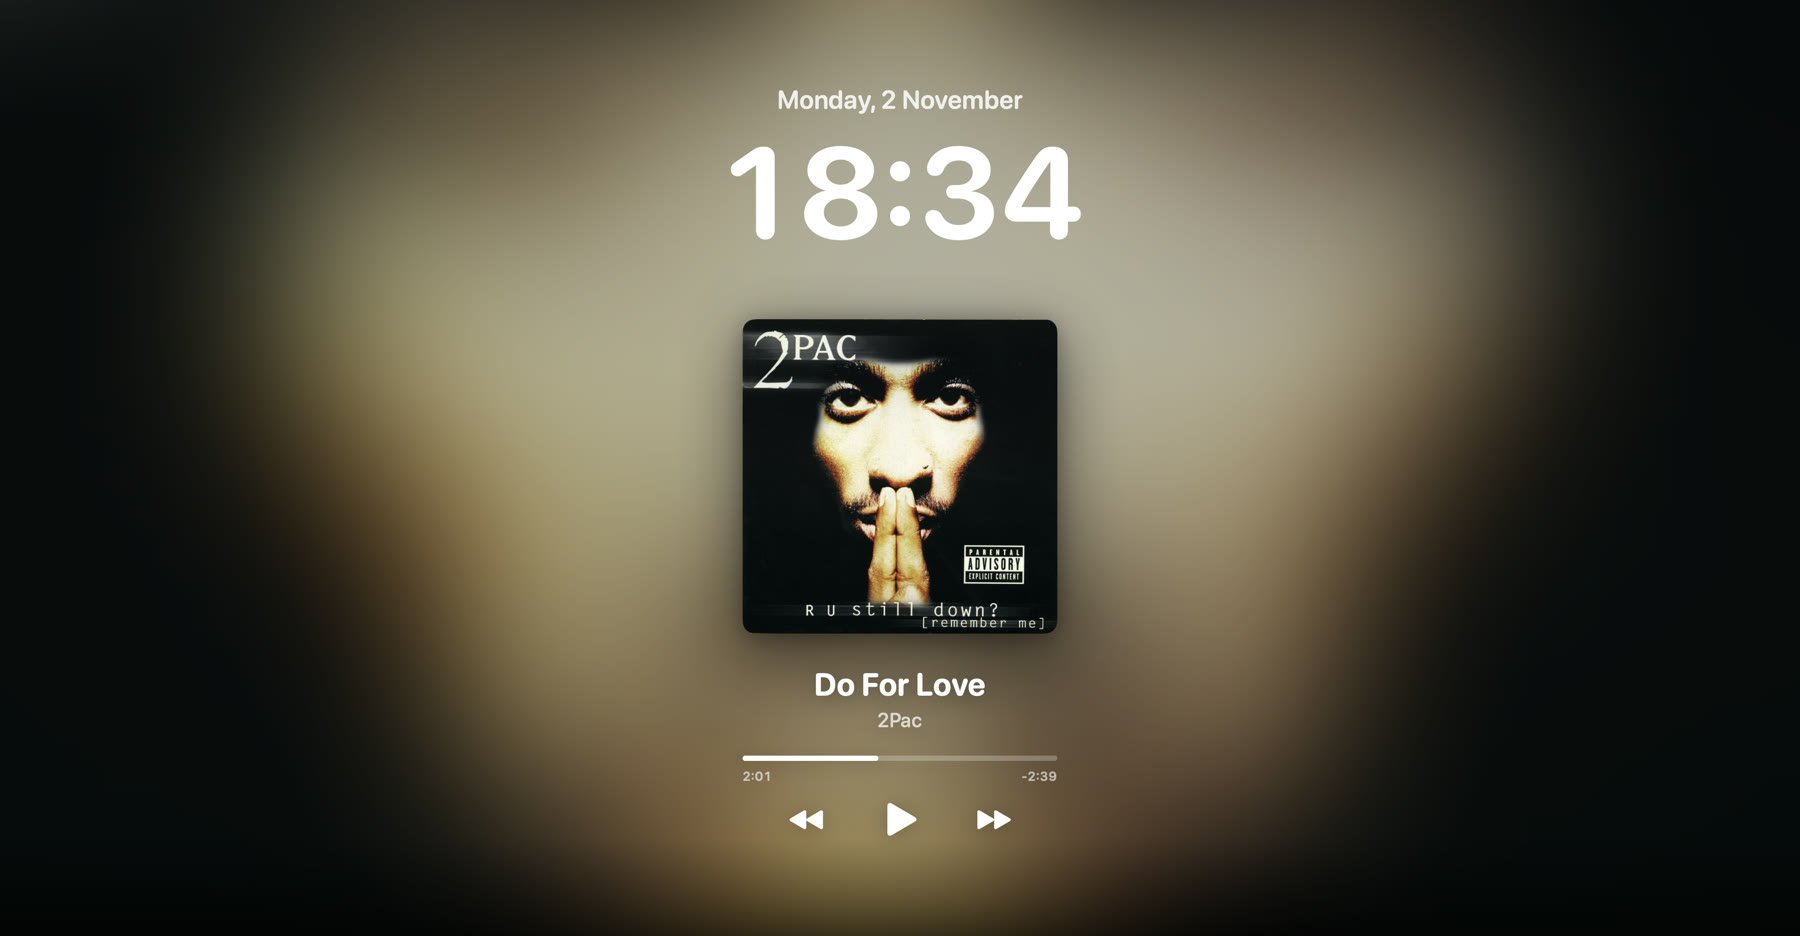
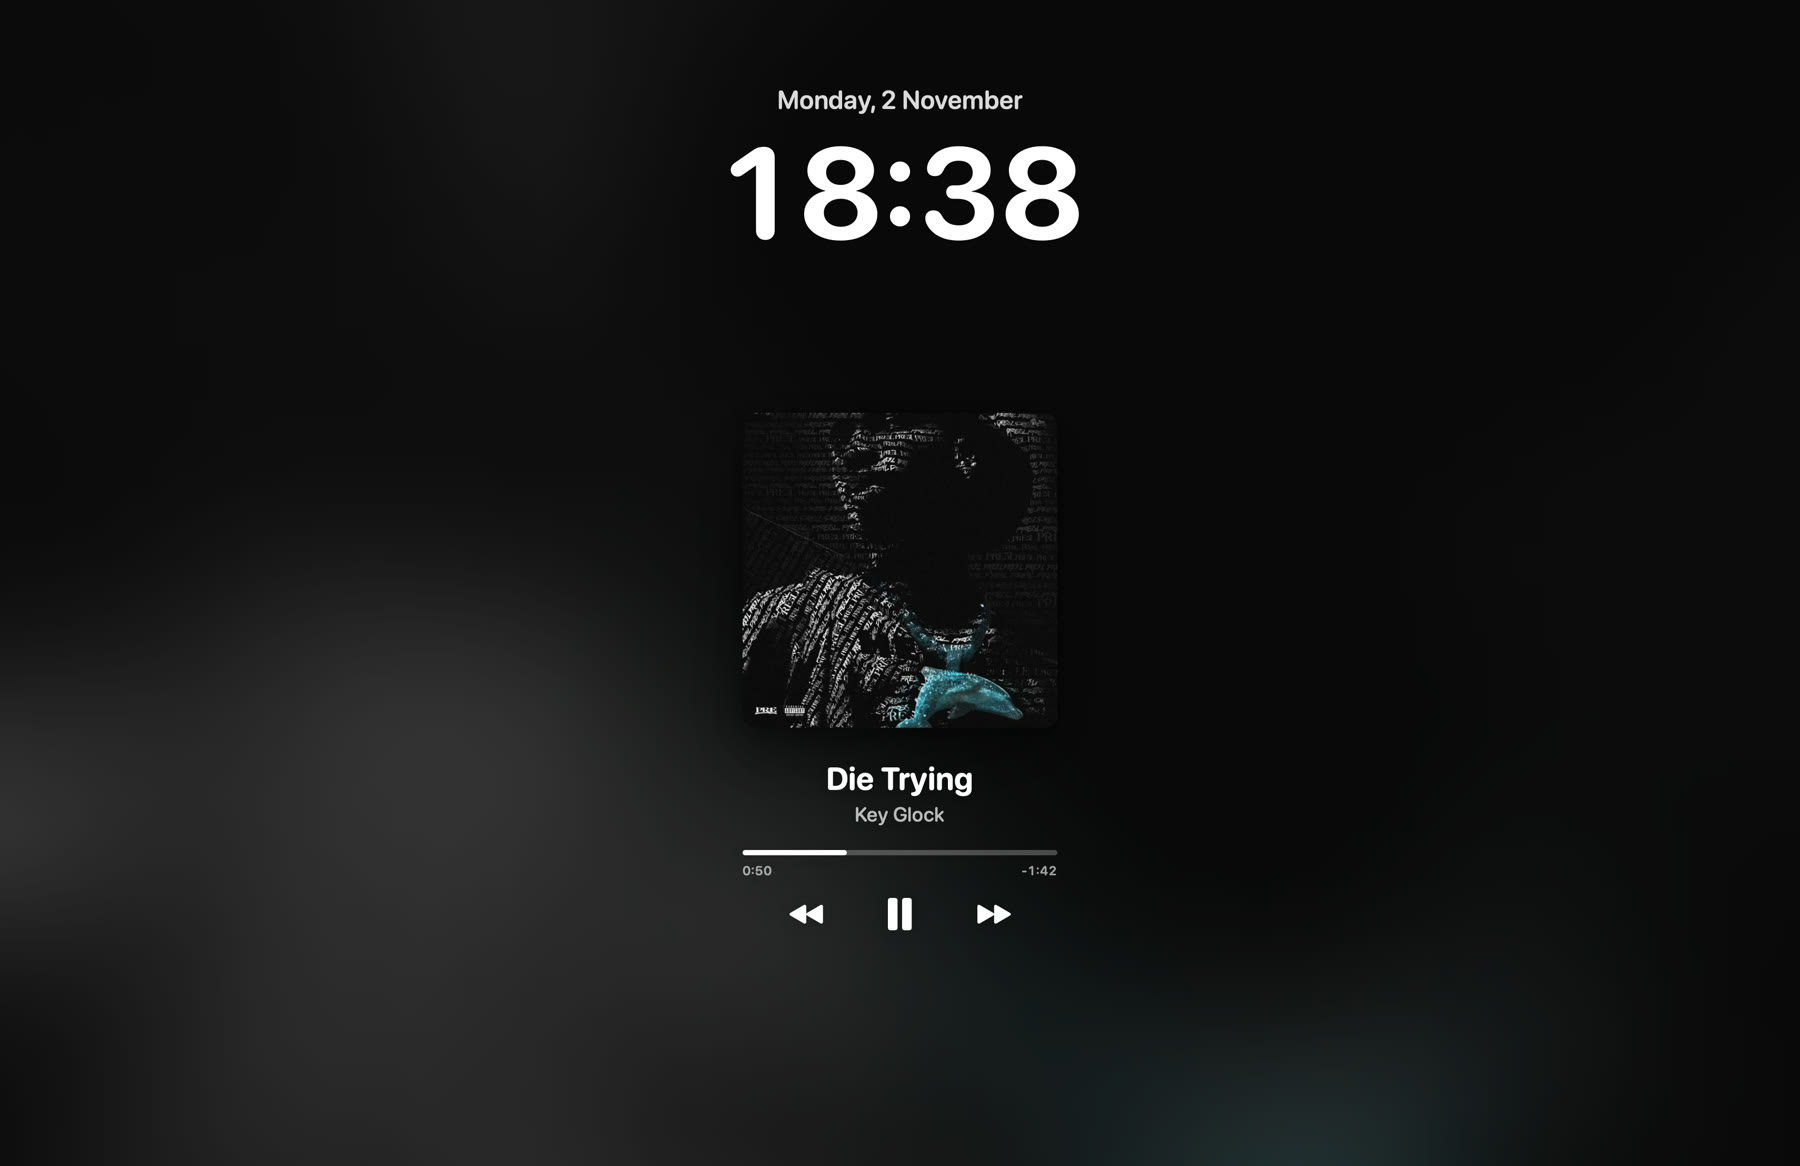
Overlay fills the whole lock screen, player centred under the clock
Drops the fade above the password field. The field is hidden under the
cover, but typing still reaches it and Touch ID still works.

diff --git a/Sources/Coverlock/LockScreenView.swift b/Sources/Coverlock/LockScreenView.swift
@@ -20,12 +20,9 @@ struct LockScreenView: View {
                     // screen so it doesn't stretch the stack and push everything up.
                     .frame(width: size.width, height: size.height)
                     .clipped()
-                    // Fade out over the password field so it stays visible and clickable.
-                    .mask(LinearGradient(stops: [
-                        .init(color: .black, location: 0),
-                        .init(color: .black, location: 0.72),
-                        .init(color: .clear, location: 0.84),
-                    ], startPoint: .top, endPoint: .bottom))
+                    // Full screen, edge to edge. This window sits above the system lock
+                    // screen, so the password field is hidden underneath; typing still goes to
+                    // it (this window never takes keystrokes) and Touch ID still works.
                 // The overlay hides the system clock, so draw one in its place.
                 LockClock(height: size.height)
                     .position(x: size.width / 2, y: size.height * 0.15)
@@ -34,7 +31,9 @@ struct LockScreenView: View {
                 Player(track: track, nowPlaying: nowPlaying, lyrics: lyrics,
                        showLyrics: showLyrics, coverSize: min(size.height * 0.3, 380))
                     .frame(maxWidth: min(size.width * 0.8, 1040))
-                    .position(x: size.width / 2, y: size.height * 0.5)
+                    // With the overlay nothing sits at the bottom, so centre the player in the
+                    // space under the clock. Otherwise keep it clear of the password field.
+                    .position(x: size.width / 2, y: size.height * (backdrop == .overlay ? 0.58 : 0.5))
                     .transition(.opacity)
             }
         }

diff --git a/Sources/Coverlock/Settings.swift b/Sources/Coverlock/Settings.swift
@@ -4,8 +4,8 @@ import Foundation
 /// lock-screen window, so the desktop is the same before and after locking. (v0.1 swapped the
 /// real wallpaper while locked; a saved "wallpaper" setting now falls back to `.overlay`.)
 enum Backdrop: String, CaseIterable {
-    /// Draw the blurred cover in our own lock-screen window. Covers the system clock, so we
-    /// draw our own, and fades out at the bottom so the password field stays visible.
+    /// Draw the blurred cover in our own lock-screen window. Covers the whole lock screen,
+    /// including the system clock (so we draw our own) and the password field.
     case overlay
     /// Leave the lock-screen background alone and only show the player.
     case off

diff --git a/README.md b/README.md
@@ -40,7 +40,7 @@ Everything lives in the ♪ menu-bar icon:
 |---|---|
 | Show on lock screen | Turns the lock-screen player on or off |
 | Show lyrics | Time-synced lyrics from [LRCLIB](https://lrclib.net) beside the cover. Off, the cover sits centred with the song name underneath |
-| Background | **Album art overlay** (the blurred cover fills the lock screen, fading out above the password field) or **Keep my wallpaper** (only the player is shown). Neither changes your desktop |
+| Background | **Album art overlay** (the blurred cover fills the whole lock screen. It also covers the password field: just type your password and press Return, or use Touch ID) or **Keep my wallpaper** (only the player is shown). Neither changes your desktop |
 | Preview for 10 seconds | Shows the player over your desktop without locking |
 | Open at login | Starts Coverlock automatically |
 
